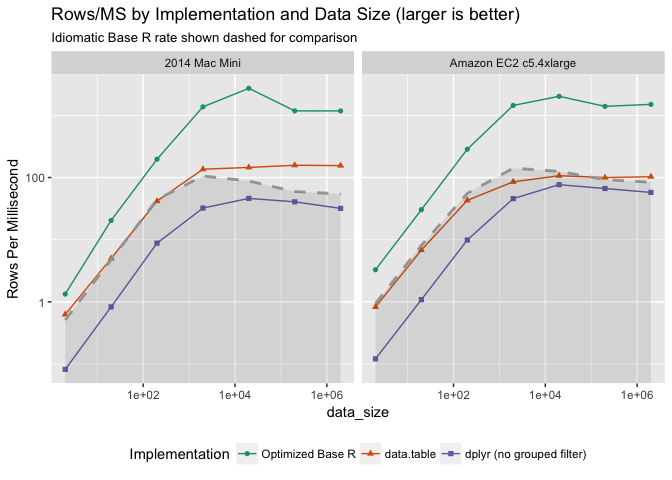
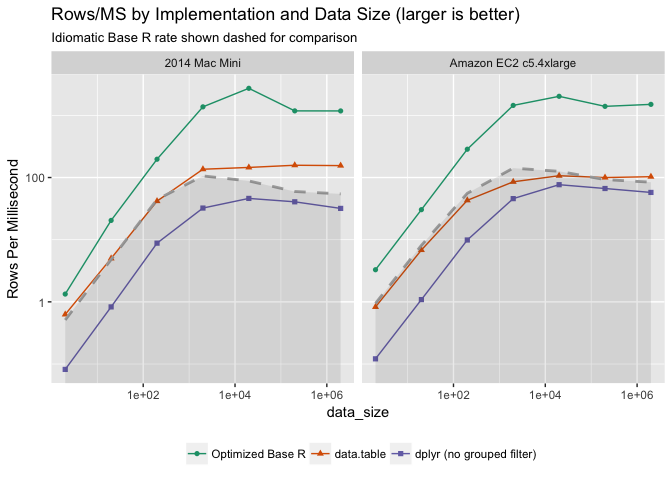
Removed title from legend

Changed region(s): [[0.1875, 0.9375, 0.875, 0.9688]]

diff --git a/extras/QTimingFollowup/compare_runs.md b/extras/QTimingFollowup/compare_runs.md
@@ -66,7 +66,7 @@ ggplot(data=compsF, aes(x=data_size, y=data_size/durationMS,
   scale_y_log10() +
   scale_color_brewer(palette="Dark2") + 
   facet_wrap(~machine, ncol=2) + 
-  theme(legend.position = "bottom") + 
+  theme(legend.position = "bottom", legend.title=element_blank()) + 
   ggtitle("Rows/MS by Implementation and Data Size (larger is better)",
           subtitle="Idiomatic Base R rate shown dashed for comparison")
 ```
